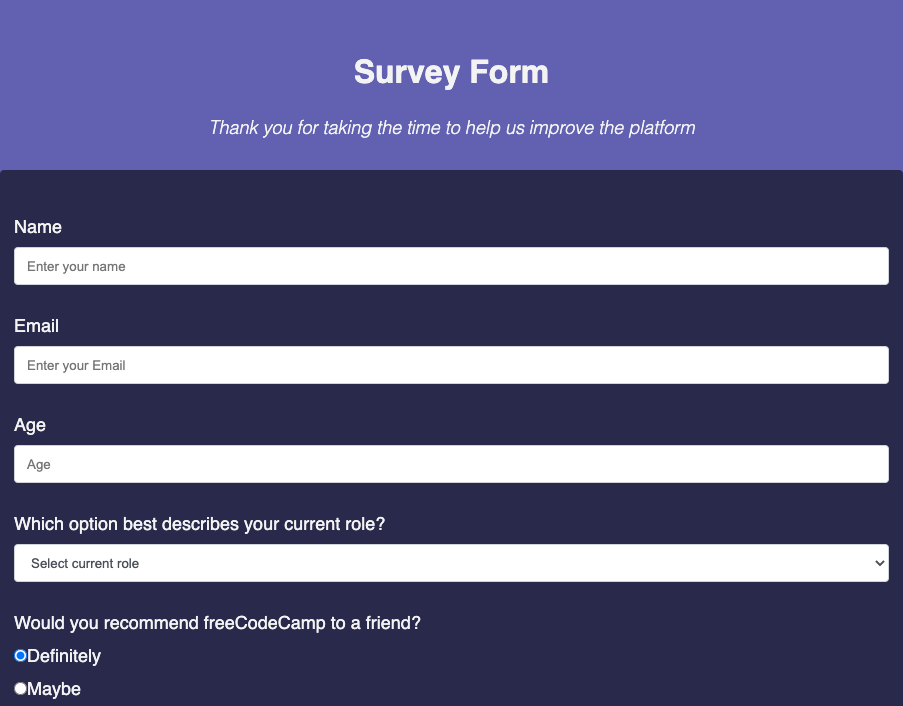
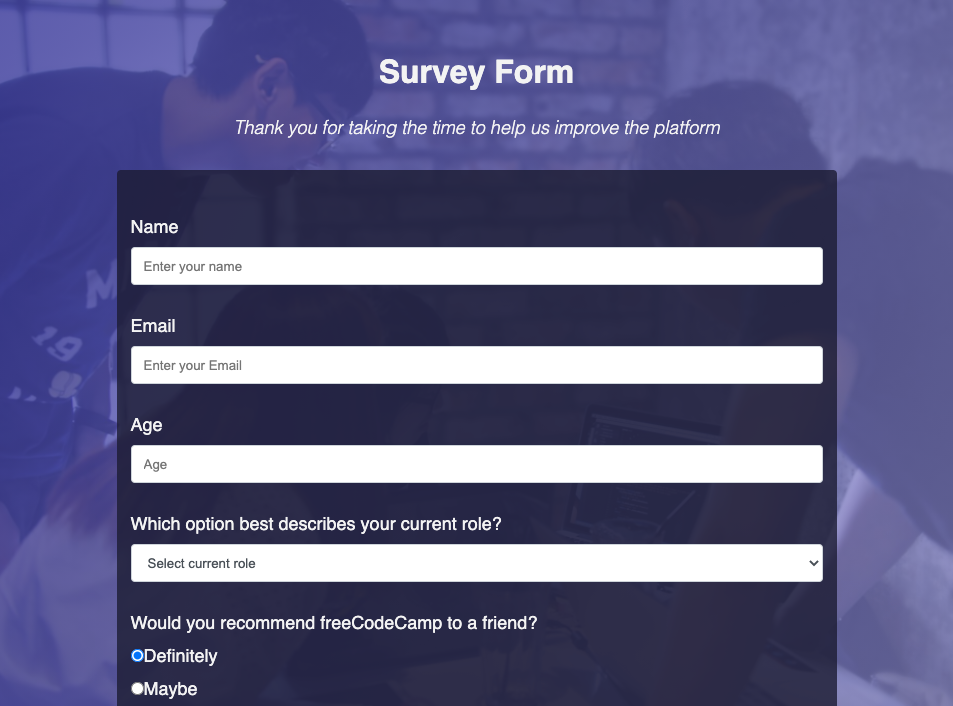
Updating Style for SurveyForm

diff --git a/surveyform/style.css b/surveyform/style.css
@@ -8,13 +8,23 @@ body {
     font-size: 1rem;
     font-weight: 400;
     line-height: 1.4;
-    background-position: center;
+    color: #f3f3f3;
+}
+
+body::before {
+    content: '';
+    position: fixed;
     top: 0;
     left: 0;
-    margin: 0;
+    height: 100%;
+    width: 100%;
     z-index: -1;
-    color: #f3f3f3;
-    background-color: rgba(58, 58, 158, 0.8) ;
+    background: var(--color-darkblue);
+    background-image: linear-gradient( 
+115deg, rgba(58, 58, 158, 0.8), rgba(136, 136, 206, 0.7) ), url(https://cdn.freecodecamp.org/testable-projects-fcc/images/survey-form-background.jpeg);
+    background-size: cover;
+    background-repeat: no-repeat;
+    background-position: center;
 }
 
 .container {
@@ -117,3 +127,16 @@ input {
     
     font-size: 1.4em;
 }
+
+@media screen and (min-width: 576px) {
+    .container {
+        max-width: 540px;
+    }
+}
+
+@media screen and (min-width:768px) {
+    .container {
+        max-width: 720px;
+    }
+}
+
